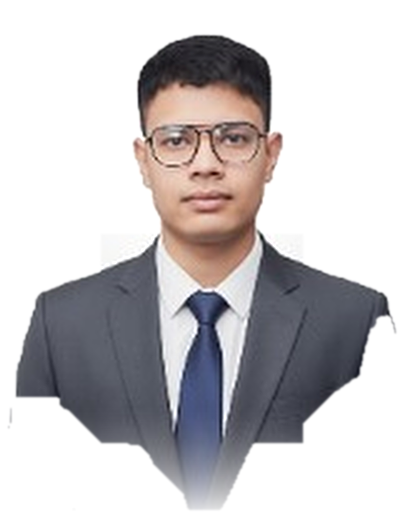
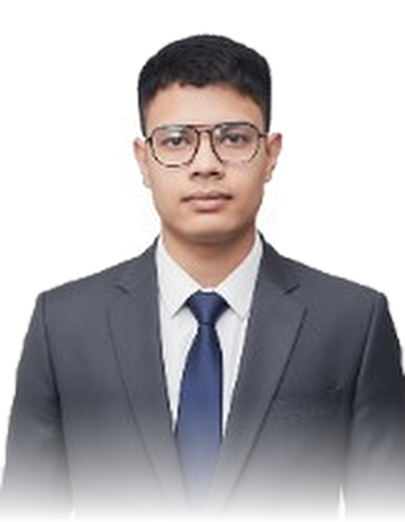
feat: refine cinematic hero portrait framing and amber rim glow

diff --git a/src/components/Hero.tsx b/src/components/Hero.tsx
@@ -134,37 +134,48 @@ export function Hero() {
           {/* Secondary Core Rim Glow */}
           <div className="absolute top-[45%] left-1/2 -translate-x-1/2 -translate-y-1/2 w-[220px] sm:w-[320px] h-[220px] sm:h-[320px] rounded-full bg-[#FF7522]/20 blur-[60px] pointer-events-none z-1" />
 
-          {/* Arun's Cutout Layered IN FRONT of the giant text */}
+          {/* Arun's Portrait inside a rounded cinematic frame with amber rim glow */}
           <motion.div
             style={{ y: photoY }}
             initial={{ opacity: 0, y: 30 }}
             animate={{ opacity: 1, y: 0 }}
             transition={{ duration: 1, delay: 0.2, ease: "easeOut" }}
-            className="relative z-10 w-full max-w-[320px] sm:max-w-[380px] md:max-w-[430px] flex items-center justify-center pt-8 sm:pt-10"
+            className="relative z-10 w-full max-w-[320px] sm:max-w-[360px] flex items-center justify-center pt-6 sm:pt-8"
           >
             <div className="relative group w-full flex items-center justify-center">
-              {/* Amber rim light wrapper */}
-              <div className="relative w-full overflow-hidden flex justify-center [mask-image:linear-gradient(to_bottom,black_75%,transparent_100%)]">
-                <Image
-                  src="/arun.png"
-                  alt="Portrait of Arun Singh"
-                  width={430}
-                  height={550}
-                  priority
-                  quality={95}
-                  className="w-auto h-auto max-h-[420px] sm:max-h-[490px] object-contain drop-shadow-[0_0_35px_rgba(255,154,46,0.35)] drop-shadow-[6px_-4px_18px_rgba(255,90,31,0.45)] transition-transform duration-700 group-hover:scale-[1.02]"
-                />
+              {/* Backlit Ember Glow behind frame */}
+              <div className="absolute -inset-4 rounded-3xl bg-gradient-to-tr from-[#FF5A1F]/30 via-[#FF9A2E]/20 to-transparent blur-2xl pointer-events-none" />
 
-                {/* Subtle Grain Overlay on the photo to hide softness */}
-                <div
-                  aria-hidden="true"
-                  className="pointer-events-none absolute inset-0 mix-blend-overlay opacity-25 bg-[radial-gradient(#FF9A2E_1px,transparent_1px)] [background-size:12px_12px]"
-                />
+              {/* Framed Portrait Container */}
+              <div className="relative w-full rounded-2xl bg-[#14100C] border border-[#FF9A2E]/40 p-2.5 shadow-[0_20px_50px_rgba(0,0,0,0.85)] overflow-hidden group-hover:border-[#FF9A2E] transition-all duration-500">
+                <div className="relative rounded-xl overflow-hidden bg-[#0A0806]">
+                  <Image
+                    src="/arun-original.jpg"
+                    alt="Portrait of Arun Singh"
+                    width={360}
+                    height={465}
+                    priority
+                    unoptimized
+                    className="w-full h-auto object-cover transition-transform duration-700 group-hover:scale-105"
+                  />
+
+                  {/* Cinematic dark vignette & amber rim light overlay */}
+                  <div className="pointer-events-none absolute inset-0 bg-[radial-gradient(ellipse_at_center,transparent_45%,rgba(10,8,6,0.7)_95%)]" />
+                  <div className="pointer-events-none absolute inset-0 shadow-[inset_0_0_35px_rgba(255,154,46,0.35)]" />
+
+                  {/* Grain Overlay */}
+                  <div
+                    aria-hidden="true"
+                    className="pointer-events-none absolute inset-0 mix-blend-overlay opacity-25 bg-[radial-gradient(#FF9A2E_1px,transparent_1px)] [background-size:12px_12px]"
+                  />
+
+                  {/* Technical corner brackets */}
+                  <div className="absolute top-2.5 left-2.5 w-3 h-3 border-t-2 border-l-2 border-[#FF9A2E]" />
+                  <div className="absolute top-2.5 right-2.5 w-3 h-3 border-t-2 border-r-2 border-[#FF9A2E]" />
+                  <div className="absolute bottom-2.5 left-2.5 w-3 h-3 border-b-2 border-l-2 border-[#FF9A2E]" />
+                  <div className="absolute bottom-2.5 right-2.5 w-3 h-3 border-b-2 border-r-2 border-[#FF9A2E]" />
+                </div>
               </div>
-
-              {/* Glowing Corner Accents */}
-              <div className="absolute -bottom-2 -left-2 w-4 h-4 border-b-2 border-l-2 border-[#FF9A2E]/60 pointer-events-none" />
-              <div className="absolute -bottom-2 -right-2 w-4 h-4 border-b-2 border-r-2 border-[#FF9A2E]/60 pointer-events-none" />
             </div>
           </motion.div>
         </div>

diff --git a/src/components/About.tsx b/src/components/About.tsx
@@ -73,10 +73,11 @@ export function About() {
                 {/* Photo with ember rim light & grain */}
                 <div className="relative rounded-xl overflow-hidden bg-[#0A0806] border border-[#261F1A]">
                   <Image
-                    src="/arun.png"
+                    src="/arun-cutout.png"
                     alt="Portrait of Arun Singh"
                     width={400}
                     height={480}
+                    unoptimized
                     className="w-full h-auto object-cover rim-light-amber transition-transform duration-700 group-hover:scale-105"
                   />
 
